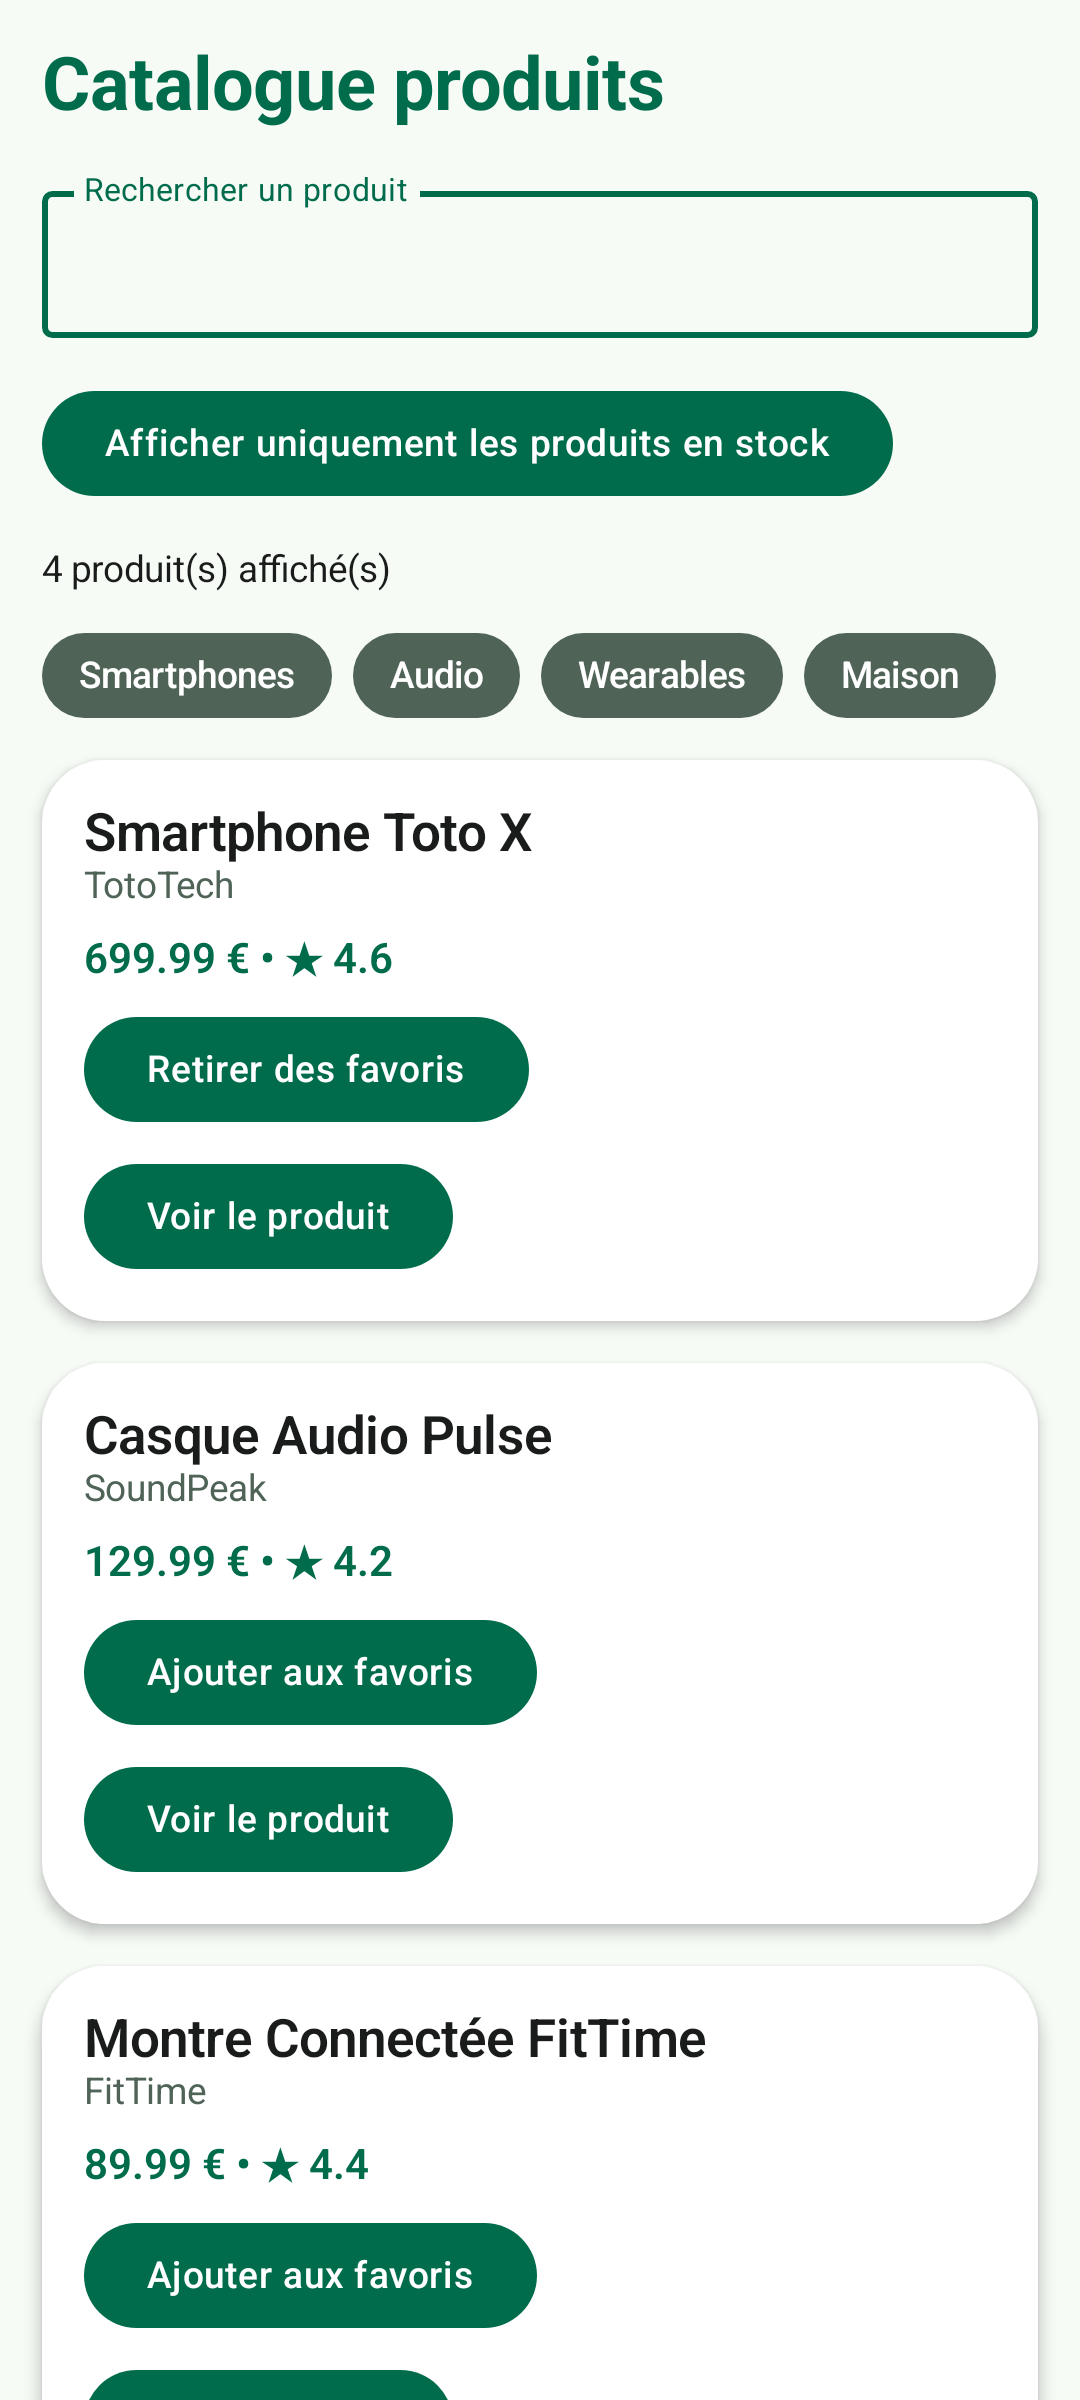
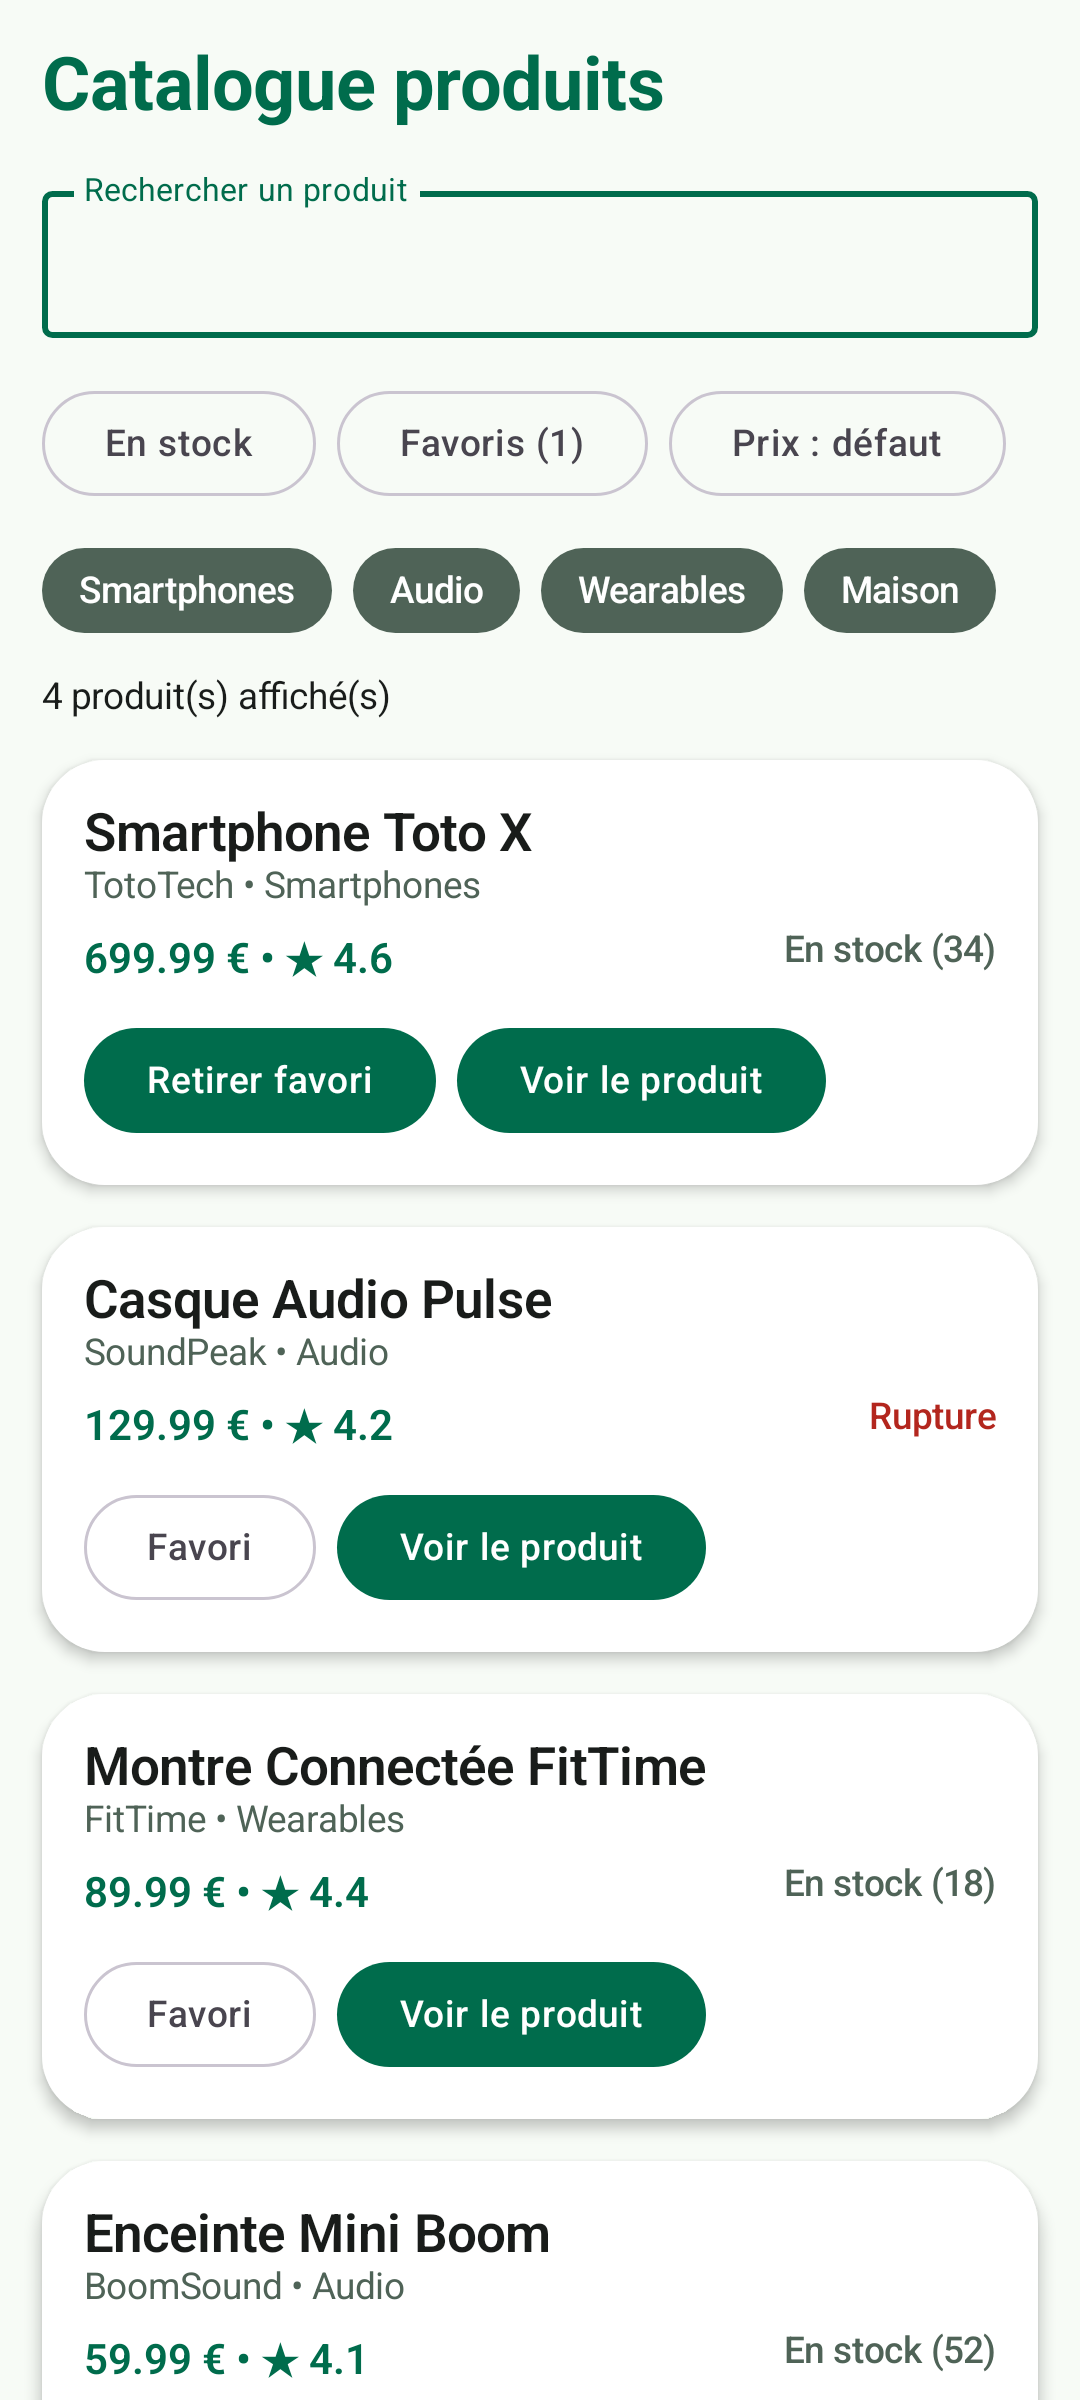
feat(autonomie): ajout de l'état vide, réinitialisation des filtres, captures TP11 et README complet

diff --git a/app/src/main/kotlin/com/example/productexplorer/ui/catalog/ProductCatalogScreen.kt b/app/src/main/kotlin/com/example/productexplorer/ui/catalog/ProductCatalogScreen.kt
@@ -184,6 +184,43 @@ fun ProductListItem(
 }
 
 @Composable
+fun EmptyCatalogCard(
+    onResetFilters: () -> Unit,
+    modifier: Modifier = Modifier
+) {
+    Card(
+        modifier = modifier.fillMaxWidth(),
+        shape = MaterialTheme.shapes.large,
+        colors = CardDefaults.cardColors(
+            containerColor = MaterialTheme.colorScheme.surface
+        ),
+        elevation = CardDefaults.cardElevation(
+            defaultElevation = 2.dp
+        )
+    ) {
+        Column(
+            modifier = Modifier.padding(20.dp)
+        ) {
+            Text(
+                text = "Aucun produit trouvé",
+                style = MaterialTheme.typography.titleMedium,
+                color = MaterialTheme.colorScheme.onSurface
+            )
+            Spacer(modifier = Modifier.height(6.dp))
+            Text(
+                text = "Essayez de modifier votre recherche ou vos filtres actifs.",
+                style = MaterialTheme.typography.bodyMedium,
+                color = MaterialTheme.colorScheme.secondary
+            )
+            Spacer(modifier = Modifier.height(12.dp))
+            Button(onClick = onResetFilters) {
+                Text(text = "Réinitialiser les filtres")
+            }
+        }
+    }
+}
+
+@Composable
 fun ProductCatalogContainer(
     onProductClick: (ProductUi) -> Unit,
     modifier: Modifier = Modifier,
@@ -206,6 +243,7 @@ fun ProductCatalogContainer(
         onCyclePriceSort = viewModel::onCyclePriceSort,
         favoriteProductIds = uiState.favoriteProductIds,
         onFavoriteClick = viewModel::onFavoriteClick,
+        onResetFilters = viewModel::onResetFilters,
         onProductClick = onProductClick,
         modifier = modifier
     )
@@ -227,9 +265,16 @@ fun ProductCatalogScreen(
     onCyclePriceSort: () -> Unit,
     favoriteProductIds: List<Int>,
     onFavoriteClick: (Int) -> Unit,
+    onResetFilters: () -> Unit,
     onProductClick: (ProductUi) -> Unit,
     modifier: Modifier = Modifier
 ) {
+    val hasActiveFilters = searchQuery.isNotBlank() ||
+        selectedCategory != null ||
+        showOnlyInStock ||
+        showOnlyFavorites ||
+        priceSortOrder != PriceSortOrder.NONE
+
     LazyColumn(
         modifier = modifier
             .fillMaxSize()
@@ -277,27 +322,41 @@ fun ProductCatalogScreen(
         }
 
         item {
-            Text(
-                text = "${products.size} produit(s) affiché(s)",
-                style = MaterialTheme.typography.bodyMedium,
-                color = MaterialTheme.colorScheme.onBackground
-            )
+            Row(modifier = Modifier.fillMaxWidth()) {
+                Text(
+                    text = "${products.size} produit(s) affiché(s)",
+                    style = MaterialTheme.typography.bodyMedium,
+                    color = MaterialTheme.colorScheme.onBackground,
+                    modifier = Modifier.weight(1f)
+                )
+                if (hasActiveFilters) {
+                    OutlinedButton(onClick = onResetFilters) {
+                        Text(text = "Réinitialiser")
+                    }
+                }
+            }
         }
 
-        items(
-            items = products,
-            key = { product -> product.id }
-        ) { product ->
-            ProductListItem(
-                product = product,
-                isFavorite = favoriteProductIds.contains(product.id),
-                onFavoriteClick = {
-                    onFavoriteClick(product.id)
-                },
-                onClick = {
-                    onProductClick(product)
-                }
-            )
+        if (products.isEmpty()) {
+            item {
+                EmptyCatalogCard(onResetFilters = onResetFilters)
+            }
+        } else {
+            items(
+                items = products,
+                key = { product -> product.id }
+            ) { product ->
+                ProductListItem(
+                    product = product,
+                    isFavorite = favoriteProductIds.contains(product.id),
+                    onFavoriteClick = {
+                        onFavoriteClick(product.id)
+                    },
+                    onClick = {
+                        onProductClick(product)
+                    }
+                )
+            }
         }
     }
 }
@@ -324,6 +383,7 @@ fun ProductCatalogScreenLightPreview() {
             onCyclePriceSort = {},
             favoriteProductIds = listOf(1),
             onFavoriteClick = {},
+            onResetFilters = {},
             onProductClick = {}
         )
     }
@@ -351,6 +411,7 @@ fun ProductCatalogScreenDarkPreview() {
             onCyclePriceSort = {},
             favoriteProductIds = listOf(2),
             onFavoriteClick = {},
+            onResetFilters = {},
             onProductClick = {}
         )
     }

diff --git a/app/src/main/kotlin/com/example/productexplorer/ui/catalog/ProductCatalogViewModel.kt b/app/src/main/kotlin/com/example/productexplorer/ui/catalog/ProductCatalogViewModel.kt
@@ -184,4 +184,17 @@ class ProductCatalogViewModel : ViewModel() {
             )
         }
     }
+
+    fun onResetFilters() {
+        _uiState.update { currentState ->
+            currentState.copy(
+                searchQuery = "",
+                selectedCategory = null,
+                showOnlyInStock = false,
+                showOnlyFavorites = false,
+                priceSortOrder = PriceSortOrder.NONE,
+                products = allProducts
+            )
+        }
+    }
 }

diff --git a/README.md b/README.md
@@ -1,32 +1,51 @@
-# Product Explorer - TP 4 à TP 10
+# Product Explorer – Projet fil rouge (TP 4 à TP 11)
 
-Application Android développée avec Jetpack Compose dans le cadre des TP du cours Android Compose.
-
----
-
-## Bloc 2 – Compose UI (TP 4 à TP 7)
-- **TP 4 (`ProductDetailScreen`)** : composants fondamentaux (`Text`, `Button`, `Icon`, `Image`, `Card`, `OutlinedTextField`).
-- **TP 5 (`ProductHomeScreen`)** : layouts Compose (`Column`, `Row`, `Box`, `Spacer`, `Surface`).
-- **TP 6 (`ProductCatalogScreen`)** : listes modernes (`LazyColumn`, `LazyRow`, `items` avec `key`, `ProductListItem`).
-- **TP 7 (Material Design 3)** : palettes clair/sombre (`LightColorScheme`, `DarkColorScheme`), `ProductTypography` et `ProductShapes`.
+Application Android développée avec Jetpack Compose dans le cadre des TP **Product Explorer** (TP 4 à TP 11), incluant les fonctionnalités supplémentaires réalisées en autonomie.
 
 ---
 
-## Bloc 3 – State Management & Architecture UI (TP 8 à TP 10)
-- **TP 8 (États Compose)** : ajout de la recherche interactive (`OutlinedTextField`), du filtre « produits en stock », du compteur de résultats et des favoris sur `ProductListItem` (`remember`, `mutableStateOf`, `rememberSaveable`).
-- **TP 9 (State Hoisting)** : séparation entre le composable stateful `ProductCatalogContainer` (qui détient les états et la logique de filtrage) et le composable stateless `ProductCatalogScreen` (qui reçoit les valeurs et remonte les événements via callbacks).
-- **TP 10 (ViewModel)** :
-  - Ajout de `androidx.lifecycle:lifecycle-viewmodel-compose` via le Version Catalog.
-  - Création de `ProductCatalogViewModel` contenant `allProducts`, `categories`, `searchQuery`, `showOnlyInStock`, `favoriteProductIds`, `filteredProducts` et les fonctions d'action (`onSearchQueryChange`, `onToggleStockFilter`, `onFavoriteClick`).
-  - `ProductCatalogContainer` relie le `ViewModel` (`viewModel()`) à `ProductCatalogScreen`.
-  - Previews stateless dédiées (`ProductCatalogScreenLightPreview` et `ProductCatalogScreenDarkPreview`).
+## Organisation du projet
+- `MainActivity.kt` : point d'entrée Android lançant `ProductCatalogContainer`.
+- `model/ProductUi.kt` : modèle de données local `ProductUi` et jeux de données (`sampleProduct`, `sampleProductOutOfStock`, `sampleProducts`, `sampleCategories`).
+- `ui/catalog/ProductCatalogViewModel.kt` : `ViewModel`, `ProductCatalogUiState`, `PriceSortOrder` et gestion réactive de l'état via `StateFlow`.
+- `ui/catalog/ProductCatalogScreen.kt` : `ProductCatalogContainer` (`collectAsState()`), `ProductCatalogScreen` (stateless), `CatalogFilterRow`, `CategoryRow`, `ProductListItem`, `EmptyCatalogCard` et previews clair/sombre.
+- `ui/components/CategoryChip.kt` : puce de catégorie réutilisable (avec état sélectionné et clic optionnel).
+- `ui/detail/ProductDetailScreen.kt` : écran détail produit (TP 4) et ses previews.
+- `ui/home/ProductHomeScreen.kt` : écran d'accueil (TP 5) et sa preview.
+- `ui/theme/` : thème Material Design 3 personnalisé (`LightColorScheme`, `DarkColorScheme`, `ProductTypography`, `ProductShapes`).
 
 ---
 
-## Previews disponibles
+## Progression des TP réalisés
 
-### Catalogue interactif - Thème clair (TP 10)
+### Bloc 2 – Compose UI (TP 4 à TP 7)
+- **TP 4** : écran de détail produit (`Text`, `Button`, `Icon`, `Image`, `Card`, `OutlinedTextField`).
+- **TP 5** : écran d'accueil (`Column`, `Row`, `Box`, `Spacer`, `Surface`).
+- **TP 6** : catalogue local avec listes modernes (`LazyColumn`, `LazyRow`, `items` avec `key`, `ProductListItem`).
+- **TP 7** : personnalisation Material Design 3 (thème clair/sombre, typographie et formes).
+
+### Bloc 3 – State Management & Architecture UI (TP 8 à TP 11)
+- **TP 8** : catalogue interactif local (`remember`, `mutableStateOf`, `rememberSaveable`, recherche, filtre stock, favoris).
+- **TP 9** : refactoring State Hoisting (`ProductCatalogContainer` stateful + `ProductCatalogScreen` stateless).
+- **TP 10** : gestion de l'état dans `ProductCatalogViewModel` avec `lifecycle-viewmodel-compose`.
+- **TP 11** : état unifié `ProductCatalogUiState` exposé par `StateFlow` (`MutableStateFlow` / `asStateFlow()` / `_uiState.update { it.copy(...) }`) et collecté dans Compose avec `collectAsState()`.
+
+---
+
+## Fonctionnalités supplémentaires (travail en autonomie)
+Toutes les fonctionnalités ci-dessous sont entièrement intégrées à `ProductCatalogUiState` et au `StateFlow` du `ViewModel` :
+1. **Filtre par catégorie cliquable** : cliquer sur un `CategoryChip` filtre le catalogue sur cette catégorie (et le met en évidence en couleur `primary`) ; un second clic réinitialise la catégorie.
+2. **Filtre « Favoris uniquement »** : bouton dédié avec compteur dynamique de favoris (`Favoris (n)`). Si un produit est retiré des favoris alors que le filtre est actif, la liste se met à jour instantanément.
+3. **Tri par prix** : bouton cyclique permettant de trier les produits affichés (*Prix : défaut* → *Prix ↑ croissant* → *Prix ↓ décroissant*).
+4. **Indicateur de stock visuel** : affichage clair sur chaque `ProductListItem` (*En stock (x)* ou *Rupture*).
+5. **État vide & réinitialisation des filtres** : affichage d'une carte `EmptyCatalogCard` lorsqu'aucun produit ne correspond, ainsi qu'un bouton *Réinitialiser* permettant de remettre tous les filtres à zéro en un clic.
+
+---
+
+## Aperçu (Previews TP 11)
+
+### Catalogue – Thème clair
 ![Aperçu Catalogue Light](screenshots/preview_catalog_light.png)
 
-### Catalogue interactif - Thème sombre (TP 10)
+### Catalogue – Thème sombre (avec filtres catégorie + tri prix actifs)
 ![Aperçu Catalogue Dark](screenshots/preview_catalog_dark.png)
